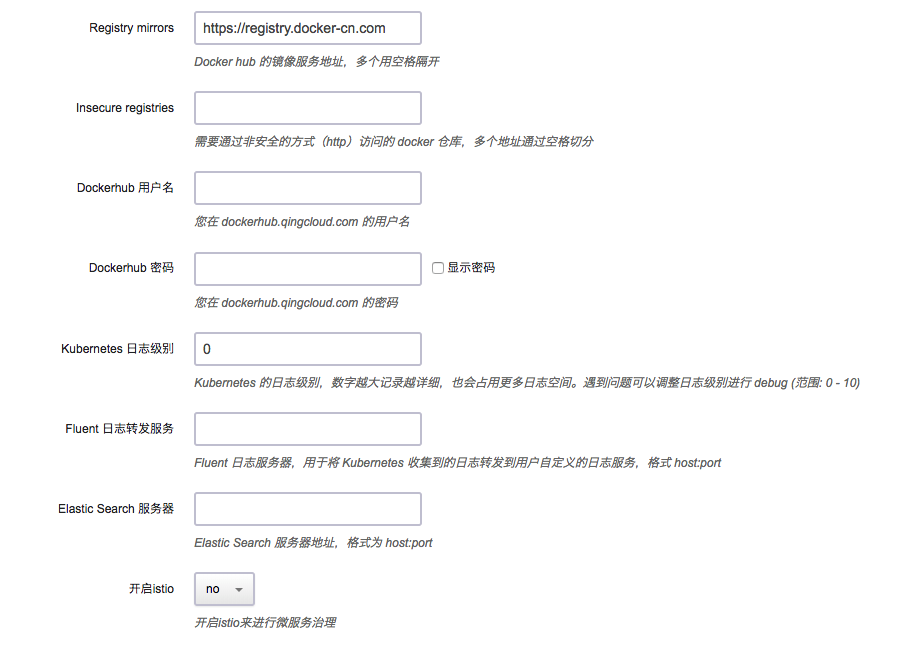
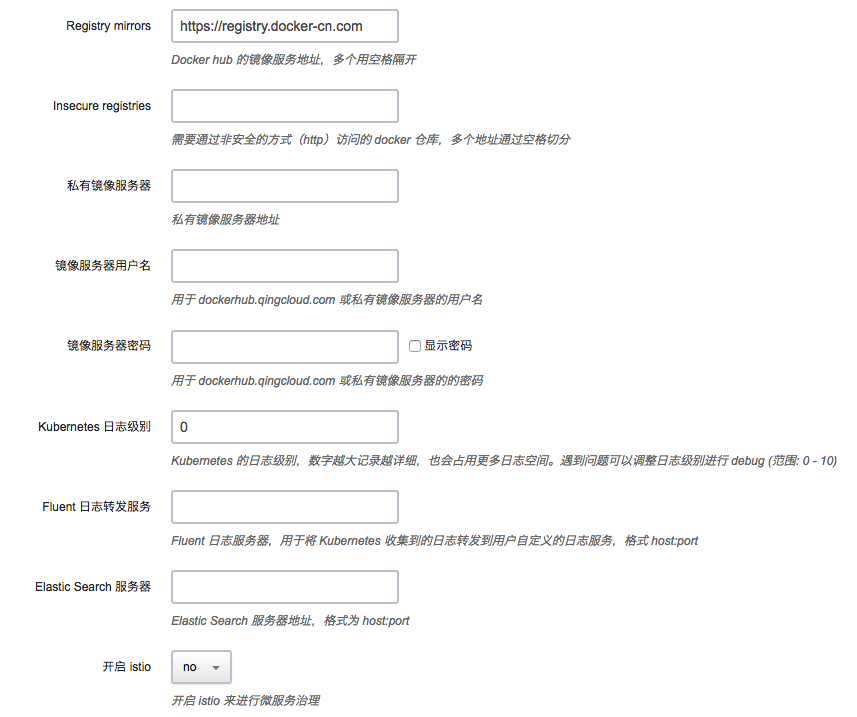
K8s private reg (#125)
* allow to configure k8s private docker reg

* allow to configure k8s private docker reg

Changed region(s): [[0.0303, 0.0, 0.9708, 0.9831]]

diff --git a/docs/kubernetes/README.md b/docs/kubernetes/README.md
@@ -39,7 +39,7 @@ Kubernetes 是一个开源的、用于管理云平台中多个主机上的容器
 
 * 为了更好地与青云基础设施集成，Kubernetes 应用需要使用您的 API 秘钥来调用 QingCloud IaaS API。请在控制台生成[秘钥](https://console.qingcloud.com/access_keys/)。  
 
-* Kubernetes 应用可选使用青云提供的 SDN2.0，创建的 Pod 都会绑定一个网卡，分配一个私网地址。这里可以设置所使用的私网 ID，私网需要预先准备好，如(vxnet-xxxxxxx)。建议给 Pod 设置专用的私网，每个私网可以容纳200多个 IP，如果您需要的容器数量较多，请填写多个，之间用空格切分。<font color=red>**如果打开hostnic,Pod 的 vxnet 请不要复用 Kubernetes 所在的 vxnet，且应和 Kubernetes 集群所在的私网在同一 VPC 中。如果关闭hostnic,请填写Kubernetes 所在的 vxnet**</font>
+* Kubernetes 应用可选择使用青云提供的 SDN2.0（hostnic），创建的 Pod 都会绑定一个网卡，分配一个私网地址。这里可以设置所使用的私网 ID，私网需要预先准备好，如(vxnet-xxxxxxx)。建议给 Pod 设置专用的私网，每个私网可以容纳200多个 IP，如果您需要的容器数量较多，请填写多个，之间用空格切分。<font color=red>**如果打开hostnic,Pod 的 vxnet 请不要复用 Kubernetes 所在的 vxnet，且应和 Kubernetes 集群所在的私网在同一 VPC 中。如果关闭hostnic,请填写Kubernetes 所在的 vxnet**</font>
 
 * 打开hostnic 如果没有特殊网络性能需求，可以关闭hostnic。主机上运行容器的的限制更少。  
 
@@ -51,7 +51,8 @@ Kubernetes 是一个开源的、用于管理云平台中多个主机上的容器
 
 * Registry mirrors Docker hub 官方镜像仓库的 镜像 地址，默认是 docker hub 官方提供的中国区的镜像站点。镜像仓库包含所有官方镜像仓库的所有镜像。  
 * Insecure registries Kubernetes 应用支持使用私有容器仓库，方便使用内部容器仓库的用户，青云提供了[harbor应用](https://appcenter.qingcloud.com/apps/app-2mhyb1ui)可以方便用户部署私有容器仓库。如果私有容器仓库没有支持 https，需要将 registry 的 ip 地址填写在这里（如果端口是非 80 端口，也需要填写，格式 ip:port)。  
-* Kubernetes 需要从 dockerhub.qingcloud.com 下载镜像，dockerhub.qingcloud.com 是青云提供给开发者的仓库服务，不包含官方镜像，这里需要用户填写 docherhub.qingcloud.com 用户名和密码用来下载镜像包含青云定制的 Kubernetes 服务镜像。系统已经内置了 guest 账号，可以拉取 dockerhub.qingcloud.com 上的公开仓库。  
+* 配置私有镜像服务器地址，指向用户自建的或者通过青云 Harbor app 创建的私有镜像服务器，部署集群的时候会自动登陆，以便用户在使用集群的时候直接拉取镜像。<font color=red>**如果是私网下的镜像服务器，确保和 Kubernetes 集群在同一 VPC下，否则需要做 VPC 之间的隧道打通。如果镜像服务器绑定了域名，需要预先在 VPC 的 DNS 管理菜单下添加域名之后，再创建 Kubernetes 集群**</font>  
+* Kubernetes 需要从 dockerhub.qingcloud.com 或者私有镜像服务器下载镜像，dockerhub.qingcloud.com 是青云提供给开发者的仓库服务，不包含官方镜像，这里需要用户填写 docherhub.qingcloud.com 或者私有镜像服务器的用户名和密码，用来下载镜像。系统已经内置了青云 guest 账号，可以拉取 dockerhub.qingcloud.com 上的公开仓库。  
 * 设置 Kubernetes 系统的日志级别，之后可以通过 kibana 查看。  
 * 如果用户需要自己对 Kubernetes 的日志或者容器输出的日志进行自定义处理，可以自己搭建 Fluent 或者 Fluent-bit 服务，将服务地址填写到这里，系统会自动将日志转发到填写的日志服务地址上。  
 * 如果用户既不想使用 Kubernetes App 的日志节点和内置的日志管理工具，也不想使用青云提供的 ELK App作为依赖服务，而是用自己搭建的 ELK 或者 EFK 服务，可以通过指定 Elastic Search 服务器的 IP 地址和端口，这里要确保 Kubernetes 集群内的节点能够访问这个地址且端口有效，格式 ip:port。  

diff --git a/docs/kubernetes/README-en-US.md b/docs/kubernetes/README-en-US.md
@@ -96,7 +96,8 @@ The following parameters are optional.
 
 * **Registry mirrors:** The mirror address for Docker hub registry, the default value is official docker hub mirror address for China.  
 * **Insecure registries:** The Kubernetes cluster supports private docker registry. To help end users using their own internal registry, QingCloud provides [Harbor App](https://appcenter.qingcloud.com/apps/app-2mhyb1ui), which is deployed within a few minutes. Specify corresponding IP address if the private registry doesn't support https or doesn't use 80 port(the format is ip:port).  
-* **Dockerhub Username & Password:** The Kubernetes cluster needs to pull necessary images customized by QingCloud from dockerhub.qingcloud.com, so end user needs to input user name and password of docherhub.qingcloud.com. The cluster already binds guest account to pull images on public repositories from dockerhub.qingcloud.com. Please go to QingCloud console, `Container Platform -> Docker Hub` to create your own repository.  
+* **Private registry:** specify the address of private docker registry, will bind the authenticaton data to docker runtime during cluster deployment, then end user could pull images directly from his own registry server. <font color=red>**Make sure the private registry server locates in same VPC with Kubernetes cluster. If end user wants to use domain name to access it, please add corresponding dns data through VPC -> DNS Service, then deploy Kubernetes cluster**</font>  
+* **Username & Password of docker registry:** The Kubernetes cluster needs to pull necessary images from dockerhub.qingcloud.com or some private docker registry server, so end user needs to input user name and password for authentication. The cluster already binds guest account to pull images on public repositories from dockerhub.qingcloud.com. Please go to QingCloud console, `Container Platform -> Docker Hub` to manage your own repositories if choosing to use QingCloud dockerhub.  
 * **Kubernetes log level:** Set the log level of Kubernetes cluster. You can view log through Kibana console.  
 * **Fluent forward server:** Specify fluentd server address if end user wants to use her/his own log server.  
 * **Elastic Search server:** Specify Elastic Search server address if end user wants to use her/his own ES service, the format is ip:port, make sure the ip and port are accessible.  
